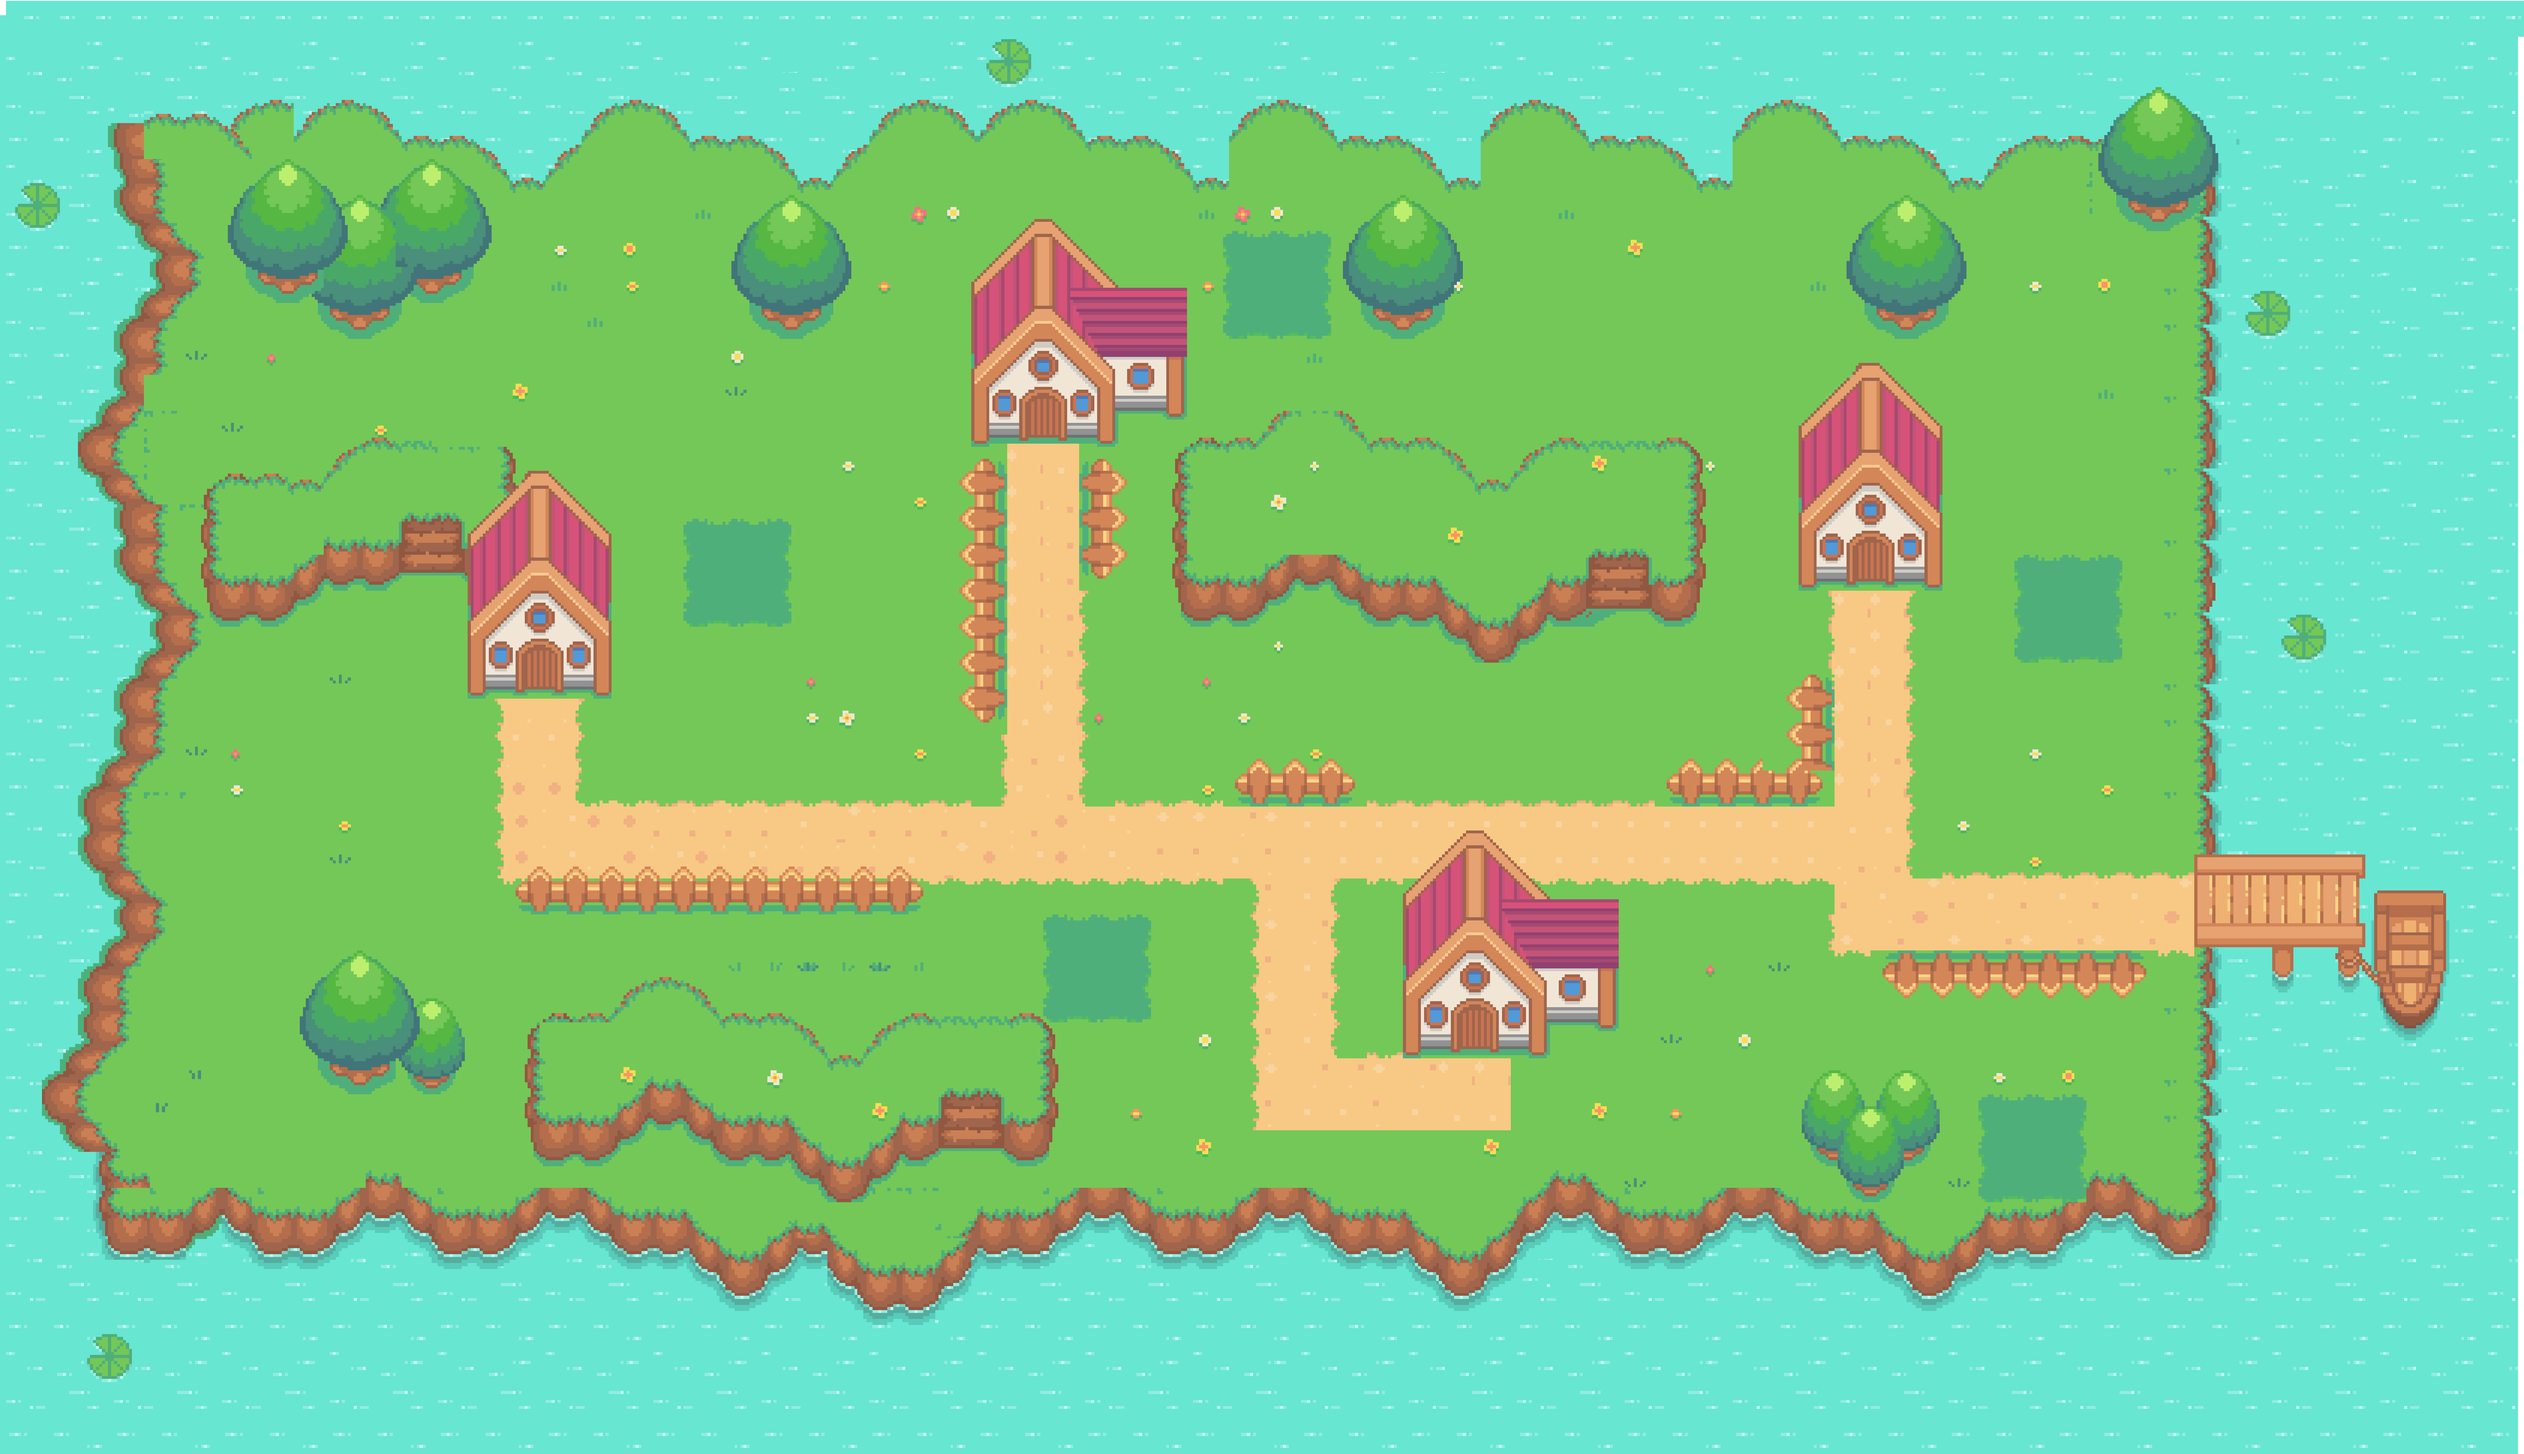
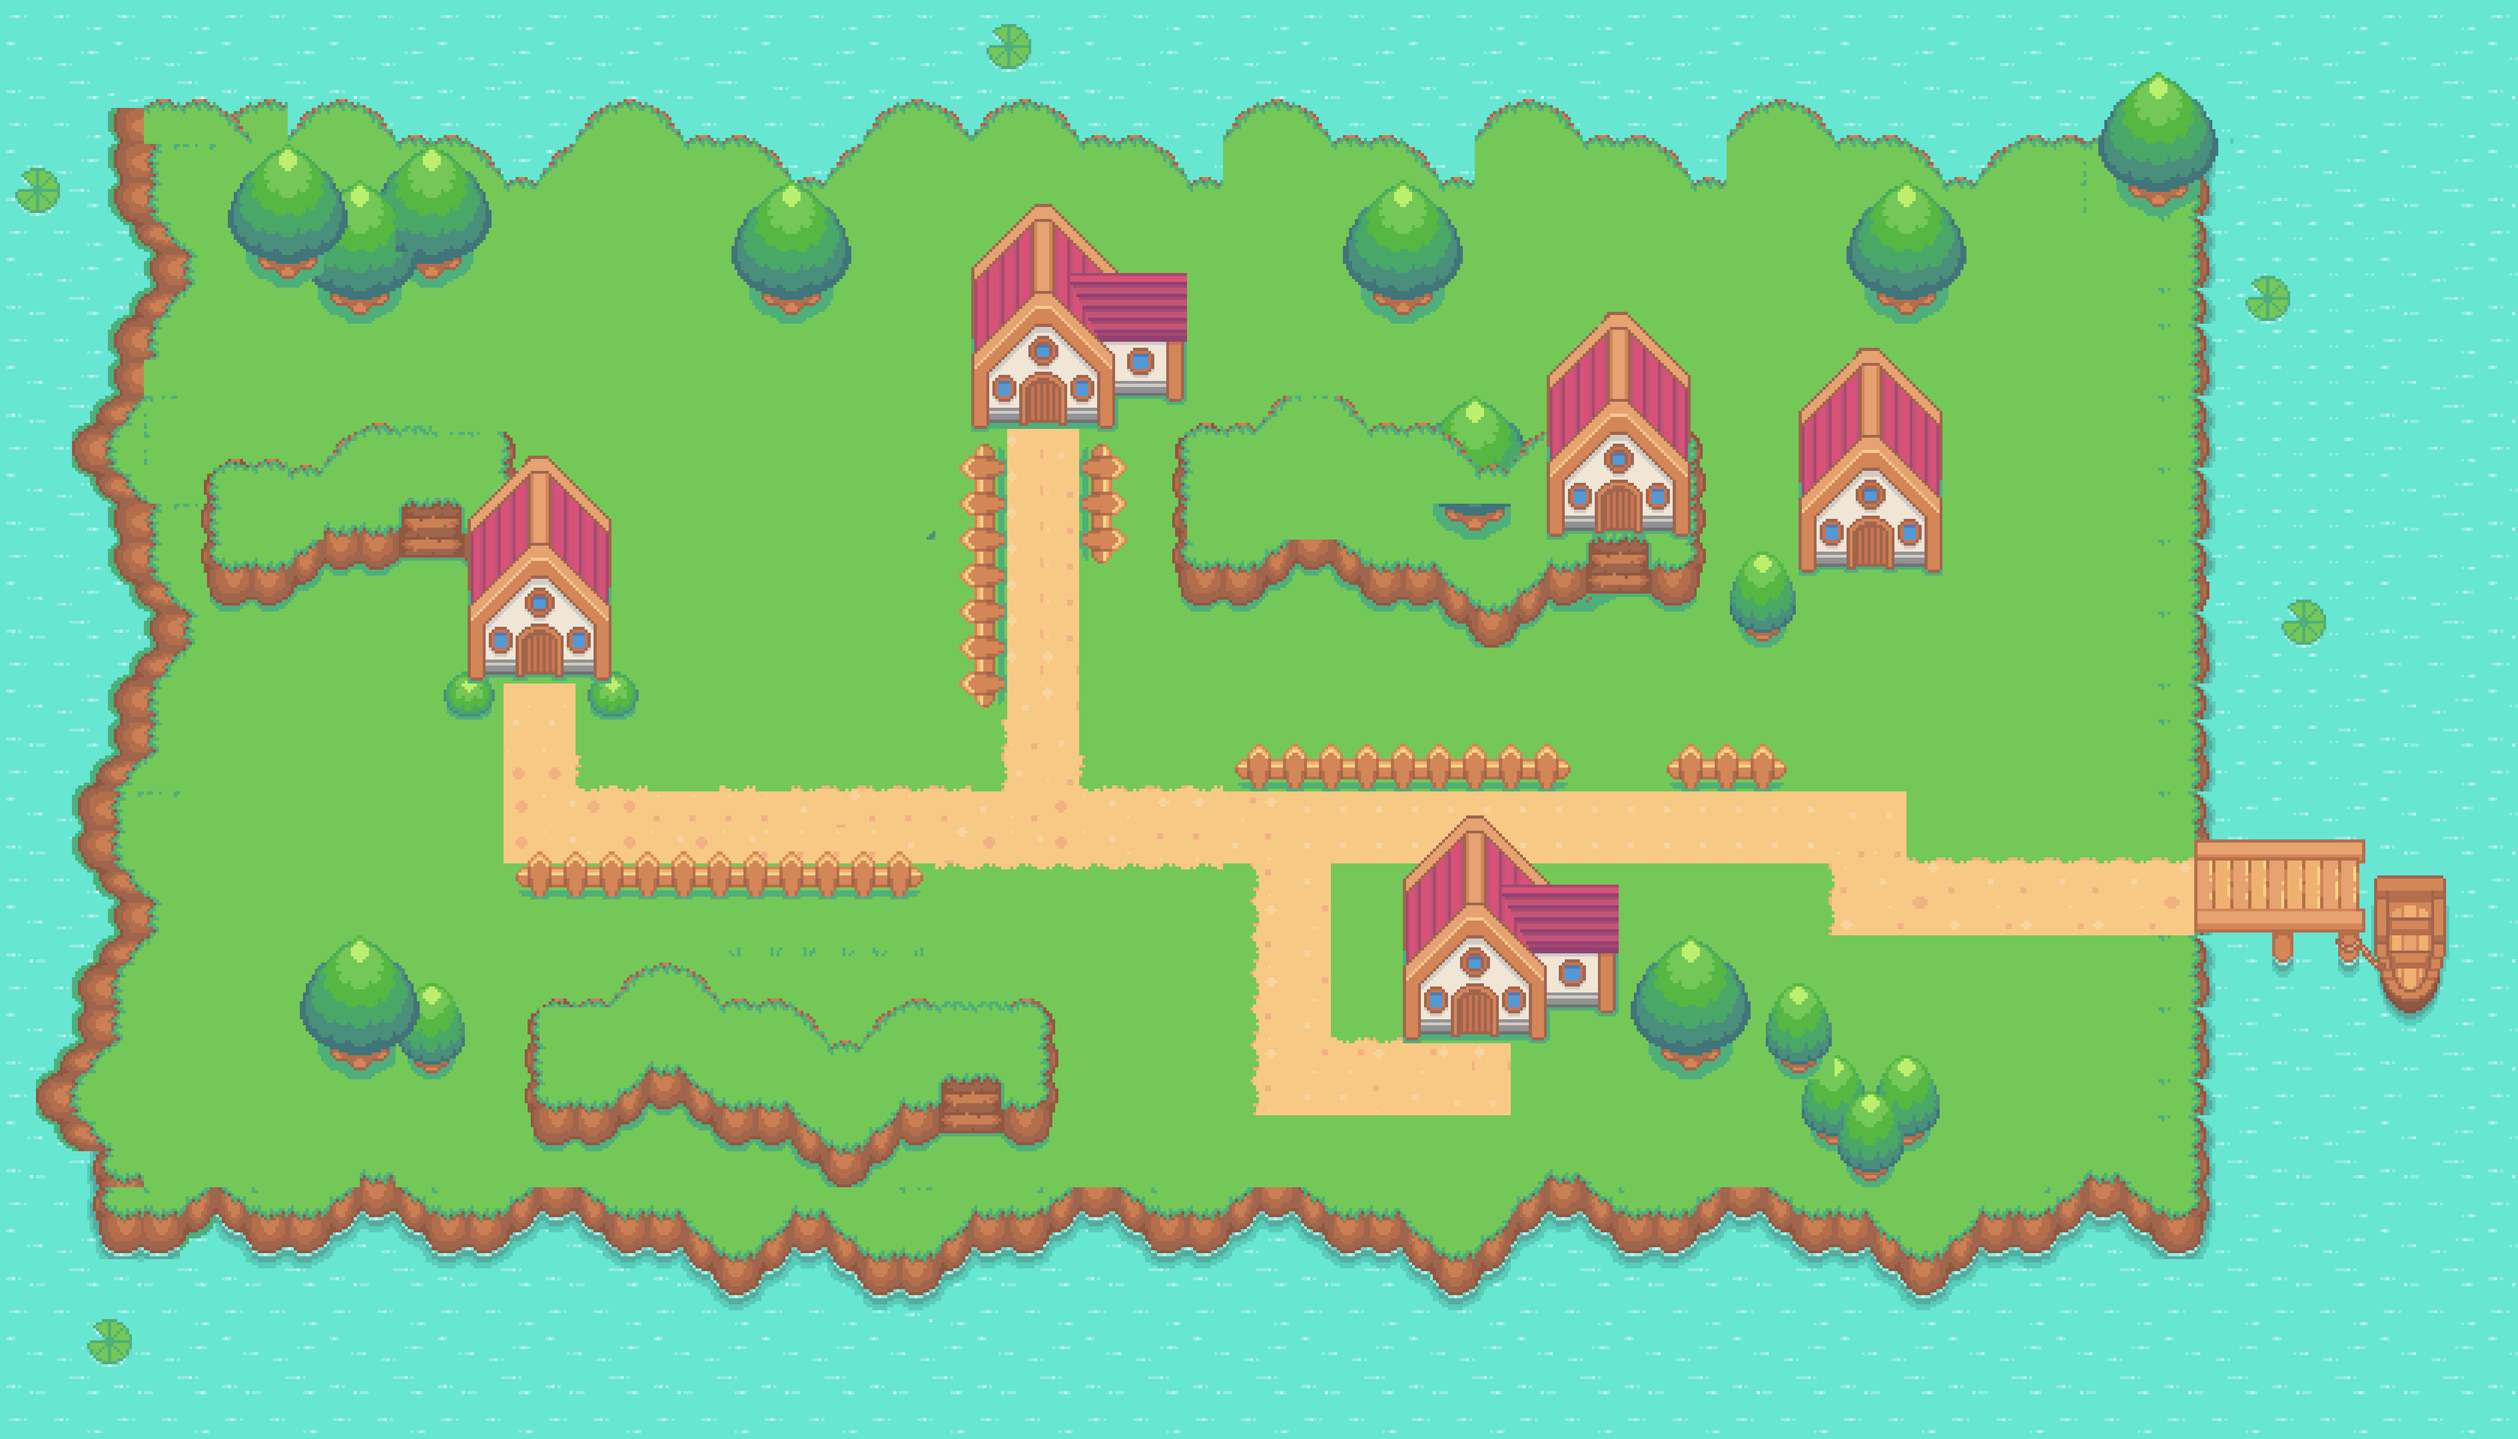
added collision boundaries on map

diff --git a/src/index.js b/src/index.js
@@ -7,11 +7,68 @@ const c = canvas.getContext("2d");
 canvas.width = 1024;
 canvas.height = 576;
 
-console.log(c);
-c.fillStyle = "white";
-c.fillRect(0, 0, canvas.width, canvas.height);
+// Step -1 Now its time we comment out these code that we use to seperate our canvas from the background
+// c.fillStyle = "white";
+// c.fillRect(0, 0, canvas.width, canvas.height);
 
+//Step-2 array of 40 array with 70 items each
+const collisionMap = [];
+
+//we use 70 because our canvas image has 70 pixels by 40 pixel
+for (let i = 0; i < collision.length; i += 70) {
+  //but we dont want to show only the first 70 element 70 times
+  // console.log(collision.slice(0, 70));
+  //what we done here is firse we console the 70 items with 70 array so we increment the 70 for the next 70 array items and so on
+  // console.log(collision.slice(i, i + 70));
+  //next one slice(70,140) and keeps increment by 70
+  collisionMap.push(collision.slice(i, 70 + i));
+}
+console.log(collisionMap);
 //create image within the javascript
+
+//Now we created a class which will represent our rectangle tiles in red colour
+class Boundary {
+  static width = 90;
+  static height = 90;
+  constructor({ position }) {
+    this.position = position;
+    // We have zoomed our town image by 750 so the tiles of the collision is also zoomed so 12(before zoomed 12*12)*7.5=90
+    this.width = 90;
+    this.height = 90;
+  }
+  //Step 3 now we used to draw the square object
+  draw() {
+    // NOW we used fill color red of canvas context and define the position of x and y
+    c.fillStyle = "red";
+    c.fillRect(this.position.x, this.position.y, this.width, this.height);
+  }
+}
+
+const offset = {
+  x: -870,
+  y: -1500,
+};
+const boundaries = [];
+//Step 4 so now we need to sign the boundaries precisely on map based off this collision map where our 1025 is the array
+collisionMap.forEach((row, i) => {
+  //Fistly we iterated our row i.e 40 arrays then we iterate over each 40 array so that we can get each particular 1025 symbol in this i is position of row and j is the position number of item inside the array
+  row.forEach((symbol, j) => {
+    // Now wherever we see the symbol 1025 we set the value position
+    if (symbol === 1025) {
+      boundaries.push(
+        new Boundary({
+          position: {
+            // j is the value where the symbol is diagonally then multiply it by 90 which gives us the exact position of the boundary on x axis same as y position but on horizontal
+            //we write offset.x that gonna subtact the width and the height so the position is centralized
+            x: j * Boundary.width + offset.x,
+            y: i * Boundary.height + offset.y,
+          },
+        })
+      );
+    }
+  });
+});
+console.log(boundaries);
 
 const image = new Image();
 image.src = "../Pokemon Assets/PalletTown1.png";
@@ -36,11 +93,12 @@ class Sprite {
     c.drawImage(this.image, this.position.x, this.position.y);
   }
 }
+
 //defining constructor
 const background = new Sprite({
   position: {
-    x: -500,
-    y: -1000,
+    x: offset.x,
+    y: offset.y,
   },
   image: image,
 });
@@ -84,7 +142,11 @@ function animate() {
   //The window.requestAnimationFrame() method tells the browser that you wish to perform an animation and requests that the browser calls a specified function to update an animation before the next repaint. The method takes a callback as an argument to be invoked before the repaint.
   window.requestAnimationFrame(animate);
   console.log(animate);
+  // Step 6 Now we draw our collision tiles on the map
   background.draw();
+  boundaries.forEach((boundary) => {
+    boundary.draw();
+  });
   c.drawImage(
     playerImage,
     0,
